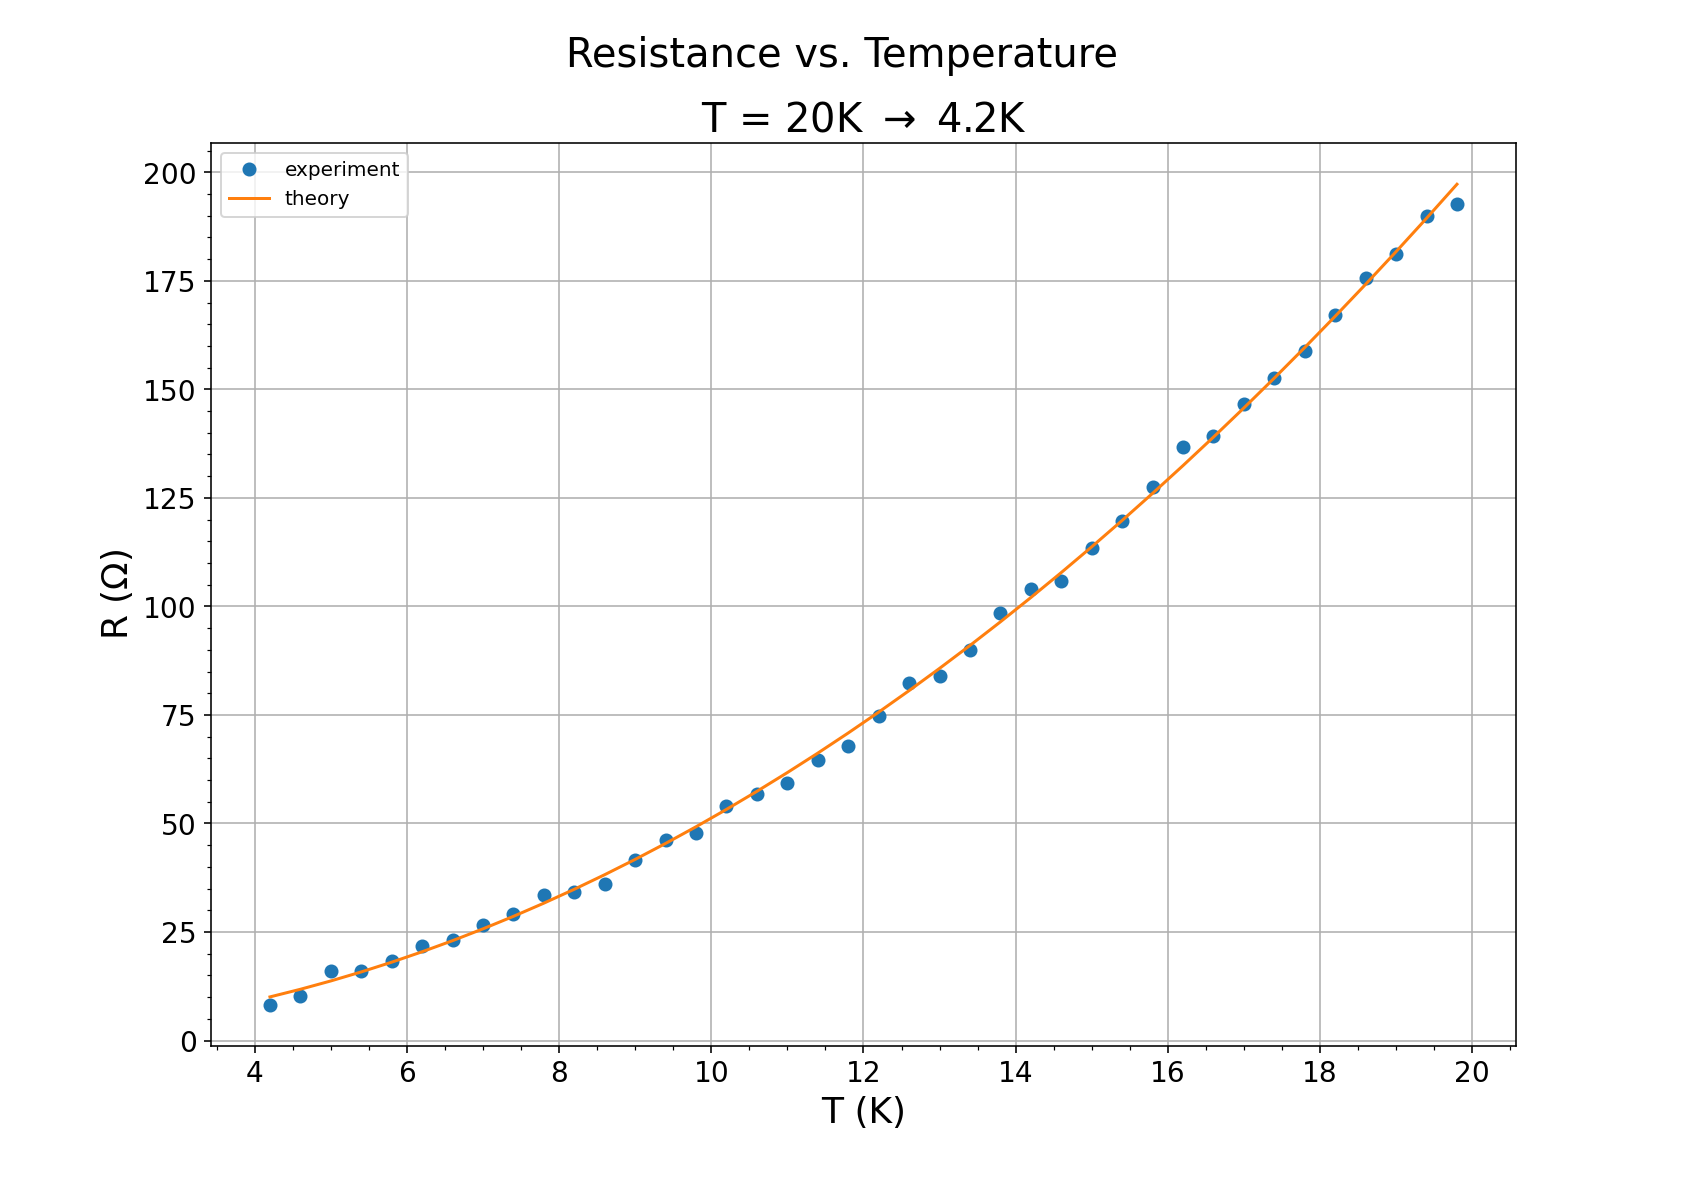
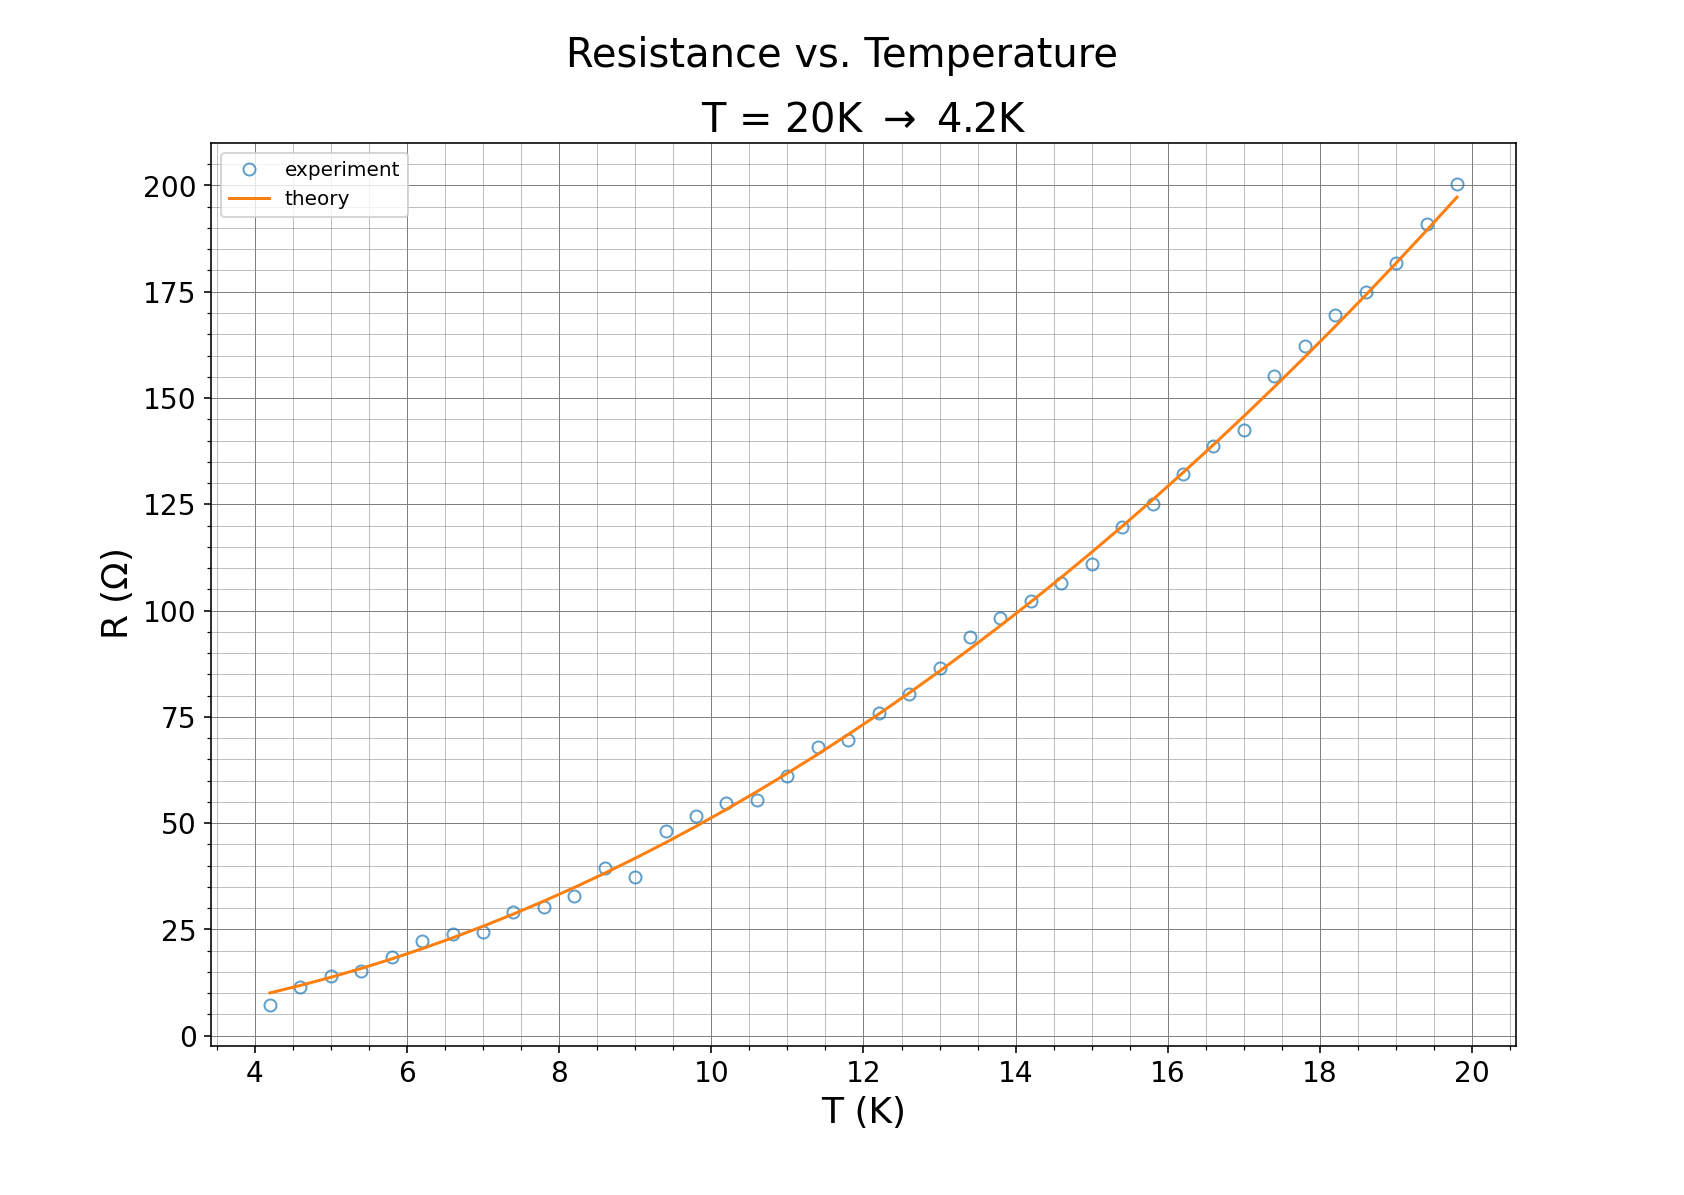
minor graphics improvments

diff --git a/fit_function_rand.py b/fit_function_rand.py
@@ -89,7 +89,7 @@ def plot_it(data, func, fit_param, titles):
     input: data (Pandas DataFarme)
     output: a plot of the experimental results with the best fit
     '''
-    fig, ax = plt.subplots(figsize=(14, 8))
+    fig, ax = plt.subplots(figsize=(11.7, 8.3), dpi=144)
     plt.errorbar(data.x, data.y, xerr=data.dx, yerr=data.dy,
                  fmt='none', label='experiment')
     plt.plot(data.x, func(data.x, *fit_param[0]),
@@ -99,7 +99,11 @@ def plot_it(data, func, fit_param, titles):
     ax.text(0.05, 0.85, text_box, transform=ax.transAxes, fontsize=10,
             verticalalignment='top', bbox=props)
     # arange figure
-    ax.grid(True)
+    ax.grid(True, which='major', axis='both',
+            color='grey', linestyle='-', linewidth=0.5)
+    ax.grid(True, which='minor', axis='both',
+            color='grey', linestyle='-', linewidth=0.25)
+    ax.minorticks_on()
     ax.legend(loc='best')
     ax.set_title(titles[0])
     ax.set_xlabel(titles[1])
@@ -149,7 +153,8 @@ TITLES = 'Displacment vs Time', 'Time (ms)', 'Displacement (mm)'
 plot_it(DATA, poly_2, FIT_PARAM, TITLES)
 
 TITLES = 'Displacment residuals vs Time', 'Time (ms)', 'y_{obs} - y_{fit} (mm)'
-plot_it(calc_residuals(poly_2, DATA, FIT_PARAM[0]), zero_func, FIT_PARAM, TITLES)
+plot_it(calc_residuals(poly_2, DATA, FIT_PARAM[0]),
+        zero_func, FIT_PARAM, TITLES)
 
 # print fit results
 print(text_fit_results(FIT_PARAM))

diff --git a/simple_graph.py b/simple_graph.py
@@ -17,12 +17,16 @@ R_experiment = R_theory + np.random.normal(0, 2, np.size(T))
 plt.close('all')
 plt.figure(figsize=(11.7, 8.3), dpi=144)
 
-plt.plot(T, R_experiment, 'o', label='experiment')
+plt.plot(T, R_experiment, 'o', mfc='none', alpha=0.7, label='experiment')
 plt.plot(T, R_theory, '-', label='theory')
 
 #plt.rc('text', usetex=False)
 #plt.rc('font', **{'family': 'sans-serif', 'sans-serif': ['DejaVu Sans']})
-plt.grid(True)
+plt.grid(True, which='major', axis='both',
+         color='grey', linestyle='-', linewidth=0.5)
+plt.grid(True, which='minor', axis='both',
+         color='grey', linestyle='-', linewidth=0.25)
+plt.minorticks_on()
 plt.minorticks_on()
 plt.xlabel('T (K)', fontsize=18)
 plt.ylabel('R ($\Omega$)', fontsize=18)

diff --git a/create_graphs_with_error_bars_general.py b/create_graphs_with_error_bars_general.py
@@ -76,9 +76,10 @@ for file in sorted(files):
     plt.errorbar(x, y, xerr=Dx, yerr=Dy, fmt=".", capsize=4, label=legend)
 
 
-plt.grid(True)
-# plt.grid(True, which='major', axis='both', color='grey', linestyle='-', linewidth=0.5)
-# plt.grid(True, which='minor', axis='both', color='grey', linestyle='-', linewidth=0.25)
+plt.grid(True, which='major', axis='both',
+         color='grey', linestyle='-', linewidth=0.5)
+plt.grid(True, which='minor', axis='both',
+         color='grey', linestyle='-', linewidth=0.25)
 plt.minorticks_on()
 
 plt.rc('text', usetex=False)

diff --git a/fit_function_to_data_with_y_error_bars.py b/fit_function_to_data_with_y_error_bars.py
@@ -69,7 +69,10 @@ def plot_it(data, func, fit_param, titles):
                  fmt='none', label='experiment')
     plt.plot(data.x,func(data.x, *fit_param[0])) #, label='fit: a0=%5.3f, a1=%5.3f, a2=%5.3f' % tuple(fit_param[0]))
     # arange figure
-    ax.grid(True)
+    ax.grid(True, which='major', axis='both',
+            color='grey', linestyle='-', linewidth=0.5)
+    ax.grid(True, which='minor', axis='both',
+            color='grey', linestyle='-', linewidth=0.25)
     ax.legend(loc='best')
     ax.set_title(titles[0])
     ax.set_xlabel(titles[1])
